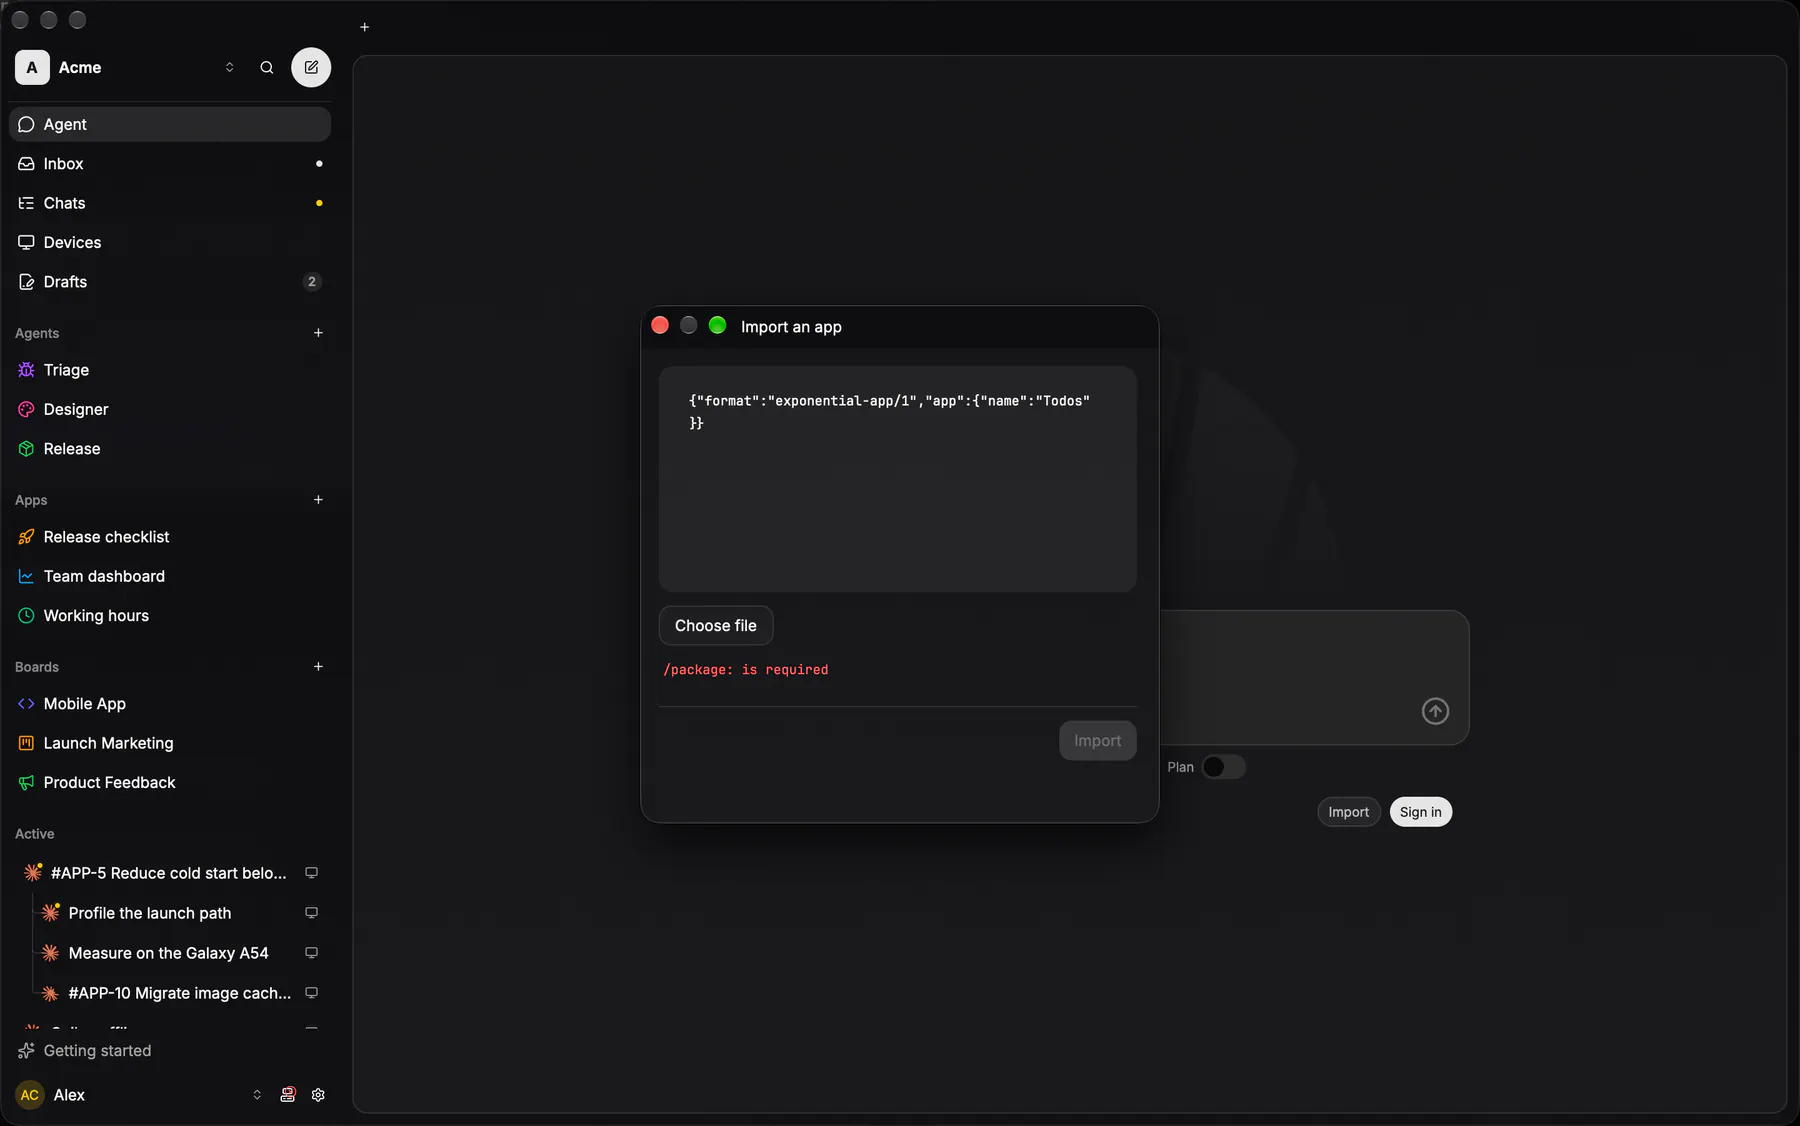
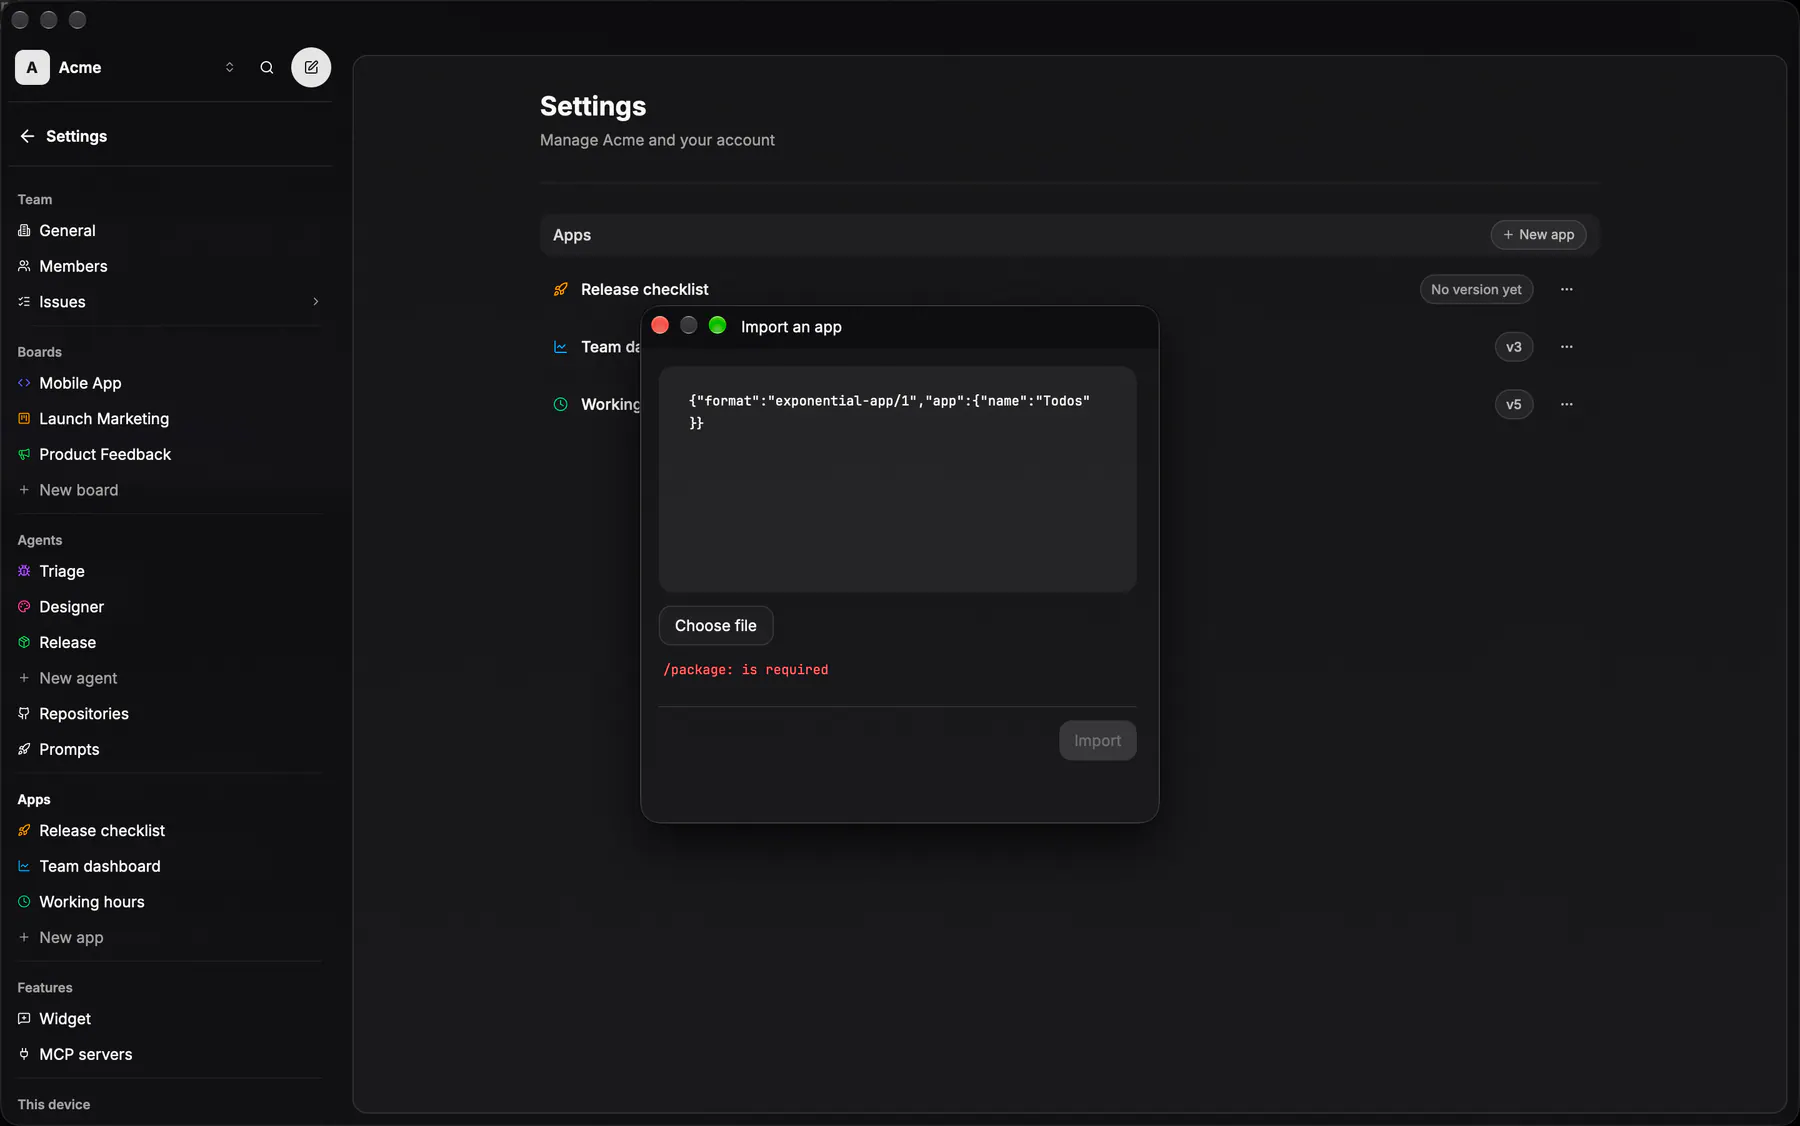
VAPP-154, VAPP-155, EXP-1393: concurrent same-name imports never 500, one parse per import check, the desktop import shot over Settings → Apps, release_lock for the lanes
- apps.import retries on the slug unique index with a fresh read of the
  taken slugs (like a sequential duplicate), CONFLICT after 5 attempts;
  a real-db test fires four concurrent same-name imports.
- parseAppImportShape returns whether the text was a bare package, so
  checkAppImport parses the JSON once (parseAppImport keeps its fixture
  shape).
- app-import desktop backdrop = Settings → Apps (signed in, seeded),
  re-shot.
- scripts/lanes/lock.sh: take_lock / release_lock (refuses a lock whose
  owner file names someone else), lane.sh wraps a command in a lane lock;
  bun run test:lanes in CI.

diff --git a/apps/web/src/lib/trpc/apps.ts b/apps/web/src/lib/trpc/apps.ts
@@ -15,13 +15,13 @@ import { router, authedProcedure, generateTxId } from "@/lib/trpc"
 import { appRecords, appVersions, apps, sessions, type App } from "@/db/schema"
 import { assertTeamMember, getTeamMember } from "@/lib/auth/membership"
 import { appPackageIssues, packageBytes, recordKindSchema, validateAppPackage } from "@/lib/apps/package"
-import { APP_EXPORT_COPY, APP_EXPORT_LIMITS, parseAppImport, type ImportIssue } from "@exp/domain-contract/app-export"
+import { APP_EXPORT_COPY, APP_EXPORT_LIMITS, parseAppImportShape, type ImportIssue, type ParsedAppImport } from "@exp/domain-contract/app-export"
 import { validateRecord } from "@exponential_app/ui"
 import { assertCanCreateAppRecord } from "@/lib/billing"
 import { APP_RECORD_KIND_PATTERN, APP_RECORD_MAX_BYTES } from "@exp/domain-contract/apps"
 import { APP_RECORDS_QUERY } from "@exp/domain-contract/app-records"
 import { APP_ACTIONS, actionGrantable, canGrantActions, declaredActions } from "@exp/domain-contract/app-actions"
-import { isUniqueViolation } from "@/lib/trpc/db-errors"
+import { isUniqueViolation, uniqueViolationConstraint } from "@/lib/trpc/db-errors"
 import type { Tx } from "@/lib/sessions/tx"
 
 // VAPP-110: Exponential APPS. The rows sync (the `apps` shape carries the
@@ -159,11 +159,9 @@ export const appUpdateInputSchema = z.object({
  *  package's rules, then every record against its kind's schema and the
  *  record cap): the issues the import step lists, and the file when there
  *  are none. A package's issue paths sit under `/package` in an app file. */
-export function checkAppImport(text: string): { issues: ImportIssue[]; file: ReturnType<typeof parseAppImport>[`file`] } {
-  const parsed = parseAppImport(text)
-  if (!parsed.file) return parsed
-  const { file } = parsed
-  const bare = !(`format` in (JSON.parse(text) as object))
+export function checkAppImport(text: string): ParsedAppImport {
+  const { issues: structural, file, bare } = parseAppImportShape(text)
+  if (!file) return { issues: structural, file: null }
   const at = (path: string) => (bare ? path : `/package${path === `/` ? `` : path}`)
   const issues: ImportIssue[] = appPackageIssues(file.package).map((issue) => ({ path: at(issue.path), message: issue.message }))
   if (issues.length === 0) {
@@ -177,6 +175,8 @@ export function checkAppImport(text: string): { issues: ImportIssue[]; file: Ret
   }
   return issues.length > 0 ? { issues, file: null } : { issues: [], file }
 }
+
+const IMPORT_SLUG_ATTEMPTS = 5
 
 const importInputSchema = z.object({ teamId: uuid, text: z.string().max(APP_EXPORT_LIMITS.importMaxBytes * 2) })
 
@@ -315,7 +315,7 @@ export const appsRouter = router({
       }
       const icon = boardIconSchema.safeParse(file.app.icon)
       const color = colorSchema.safeParse(file.app.color)
-      return await ctx.db.transaction(async (tx) => {
+      const importInTx = () => ctx.db.transaction(async (tx) => {
         const txId = await generateTxId(tx)
         const slug = slugify(file.app.name, await takenSlugs(tx, input.teamId))
         const [app] = await tx
@@ -338,6 +338,20 @@ export const appsRouter = router({
         }
         return { txid: txId, app: { ...app!, headVersion: number }, records: file.records.length }
       })
+      // VAPP-154: two same-name imports at once derive the same slug; the
+      // loser's insert hits the unique index and retries on a fresh read of
+      // the taken slugs, like a sequential duplicate (`-2`). Out of
+      // attempts = CONFLICT, never a 500.
+      for (let attempt = 1; ; attempt++) {
+        try {
+          return await importInTx()
+        } catch (error) {
+          if (uniqueViolationConstraint(error) !== `uniq_apps_team_slug`) throw error
+          if (attempt >= IMPORT_SLUG_ATTEMPTS) {
+            throw new TRPCError({ code: `CONFLICT`, message: `An app named "${file.app.name}" is being imported at the same time; try again` })
+          }
+        }
+      }
     }),
 
   update: authedProcedure

diff --git a/packages/domain-contract/src/app-export.ts b/packages/domain-contract/src/app-export.ts
@@ -100,7 +100,15 @@ function nestedDeeperThan(root: unknown, max: number): boolean {
  *  the package's presence and the records' shape. A bare package (an object
  *  with `templates` and no `format`) is accepted and named by its `name`. */
 export function parseAppImport(text: string): ParsedAppImport {
-  const fail = (issues: ImportIssue[]): ParsedAppImport => ({ issues, file: null })
+  const { issues, file } = parseAppImportShape(text)
+  return { issues, file }
+}
+
+/** `parseAppImport` plus whether the text was a BARE package (the server
+ *  roots a package's issue paths at `/` then, not `/package`): one JSON
+ *  parse for the whole import check (VAPP-155). */
+export function parseAppImportShape(text: string): ParsedAppImport & { bare: boolean } {
+  const fail = (issues: ImportIssue[]) => ({ issues, file: null, bare: false })
   if (!text.trim()) return fail([{ path: `/`, message: `paste an app file or a package` }])
   if (new TextEncoder().encode(text).byteLength > APP_EXPORT_LIMITS.importMaxBytes) {
     return fail([{ path: `/`, message: `is over ${APP_EXPORT_LIMITS.importMaxBytes} bytes` }])
@@ -117,7 +125,7 @@ export function parseAppImport(text: string): ParsedAppImport {
   }
   if (value.format === undefined && `templates` in value) {
     const name = typeof value.name === `string` && value.name.trim() ? value.name.trim().slice(0, APP_NAME_MAX) : `Imported app`
-    return { issues: [], file: { app: { name, icon: null, color: null, description: `` }, package: value, records: [] } }
+    return { issues: [], file: { app: { name, icon: null, color: null, description: `` }, package: value, records: [] }, bare: true }
   }
   if (value.format !== APP_EXPORT_FORMAT) return fail([{ path: `/format`, message: `must be "${APP_EXPORT_FORMAT}"` }])
   const issues: ImportIssue[] = []
@@ -156,5 +164,6 @@ export function parseAppImport(text: string): ParsedAppImport {
       package: value.package as Record<string, unknown>,
       records,
     },
+    bare: false,
   }
 }

diff --git a/apps/web/src/lib/trpc/apps.real-db.test.ts b/apps/web/src/lib/trpc/apps.real-db.test.ts
@@ -261,4 +261,18 @@ describe.skipIf(!ready.ok)(`apps router (real db)`, () => {
     expect(bare.app).toMatchObject({ name: `Hours`, slug: `hours-3`, icon: null, headVersion: 1 })
     await expect(caller(await user()).validateImport({ teamId: w.teamId, text })).rejects.toBeTruthy()
   })
+
+  // VAPP-154: same-name imports at once race on the slug; the loser retries
+  // with the next free one (like a sequential duplicate), never a 500.
+  it(`import: concurrent same-name imports each land on their own slug`, async () => {
+    const w = await world()
+    const text = JSON.stringify({ ...RECORDS_PACKAGE, name: `Race` })
+    const results = await Promise.allSettled([1, 2, 3, 4].map(() => caller(w.mate).import({ teamId: w.teamId, text })))
+    const failures = results.flatMap((r) => (r.status === `rejected` ? [r.reason as { code?: string }] : []))
+    expect(failures.every((e) => e.code === `CONFLICT`)).toBe(true)
+    const slugs = results.flatMap((r) => (r.status === `fulfilled` ? [r.value.app.slug] : []))
+    expect(new Set(slugs).size).toBe(slugs.length)
+    expect(slugs.length).toBeGreaterThanOrEqual(1)
+    expect(slugs).toContain(`race`)
+  })
 })

diff --git a/CLAUDE.md b/CLAUDE.md
@@ -37,7 +37,10 @@ bun run ios / ios:test · bun run android · bun run dev:desktop / {build,test}:
 bun run shots -- --platform <p> --views <id> --skip-seed   # natives + desktop captures
 cd apps/web && bun run seed:screenshots && bun run capture:views -- --form-factor web|web-mobile --views <id>
 bun run build                   # widget FIRST, then web + marketing
+scripts/lanes/lane.sh <ios|android|heavy> <owner> -- <cmd>   # device + heavy-build lanes
 ```
+
+Lane locks (`scripts/lanes/lock.sh`): work only after your own `take_lock`; free one only with `release_lock <dir> <owner>`, never `rm` (it refuses a lock another owner holds).
 
 Never lint/format. Schema change = edit `packages/db-schema/src/schema.ts`, `bun run migrate:generate && bun run migrate`; custom triggers in `apps/web/src/db/out/custom/0001_triggers.sql` apply at boot (`applyCustomSql`; `bun dev` does not run it: apply by hand in dev). Enum change = `contract.json` + regenerate ×4. Icon change = `packages/icons/icons.json` + regenerate; `pickable`/`devicePickable` are APPEND-ONLY. New styleguide entry = five sites (sections.json, entries/index.ts, entries/<id>.tsx, page.ts ENTRY_BAND, desktop styleguide twin). Every user-facing release PREPENDS a `ChangelogEntry` to `lib/changelog.ts` (mirror `crates/ui/src/changelog.rs`).
 
